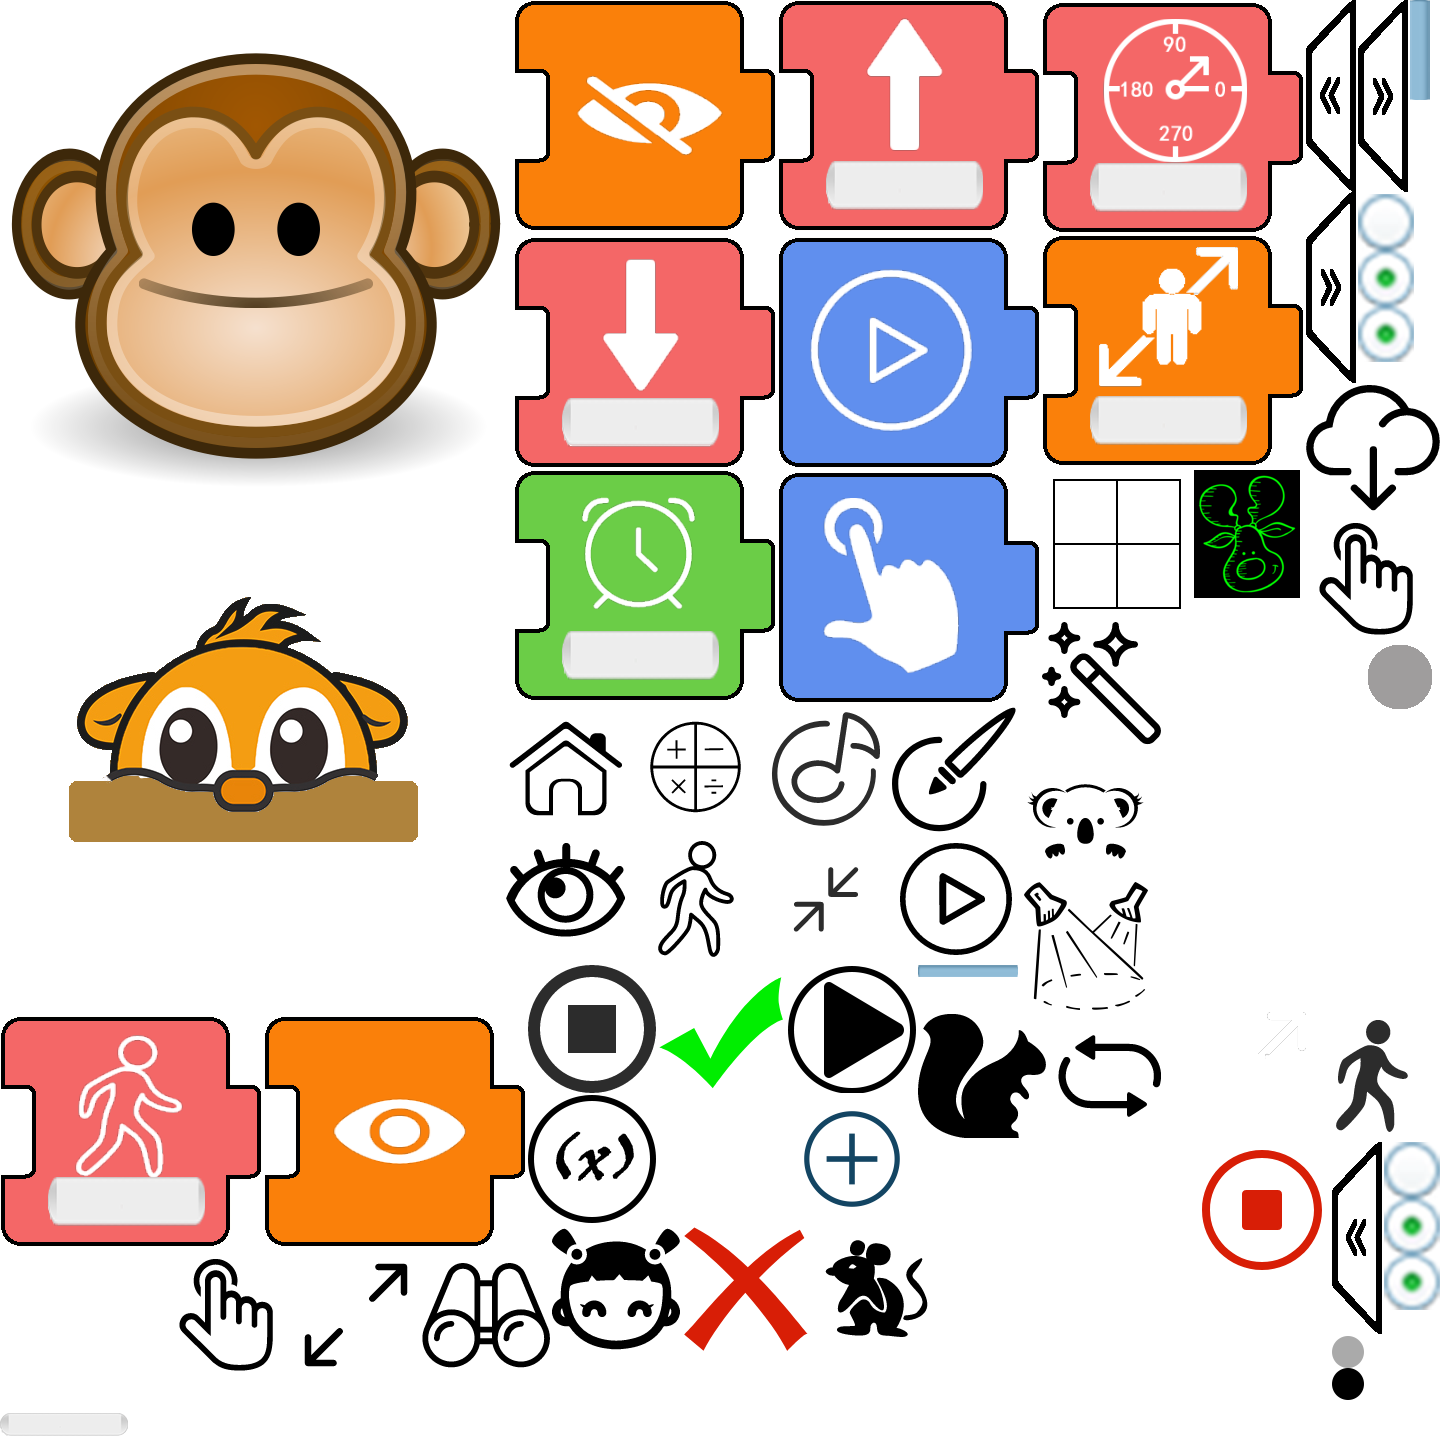
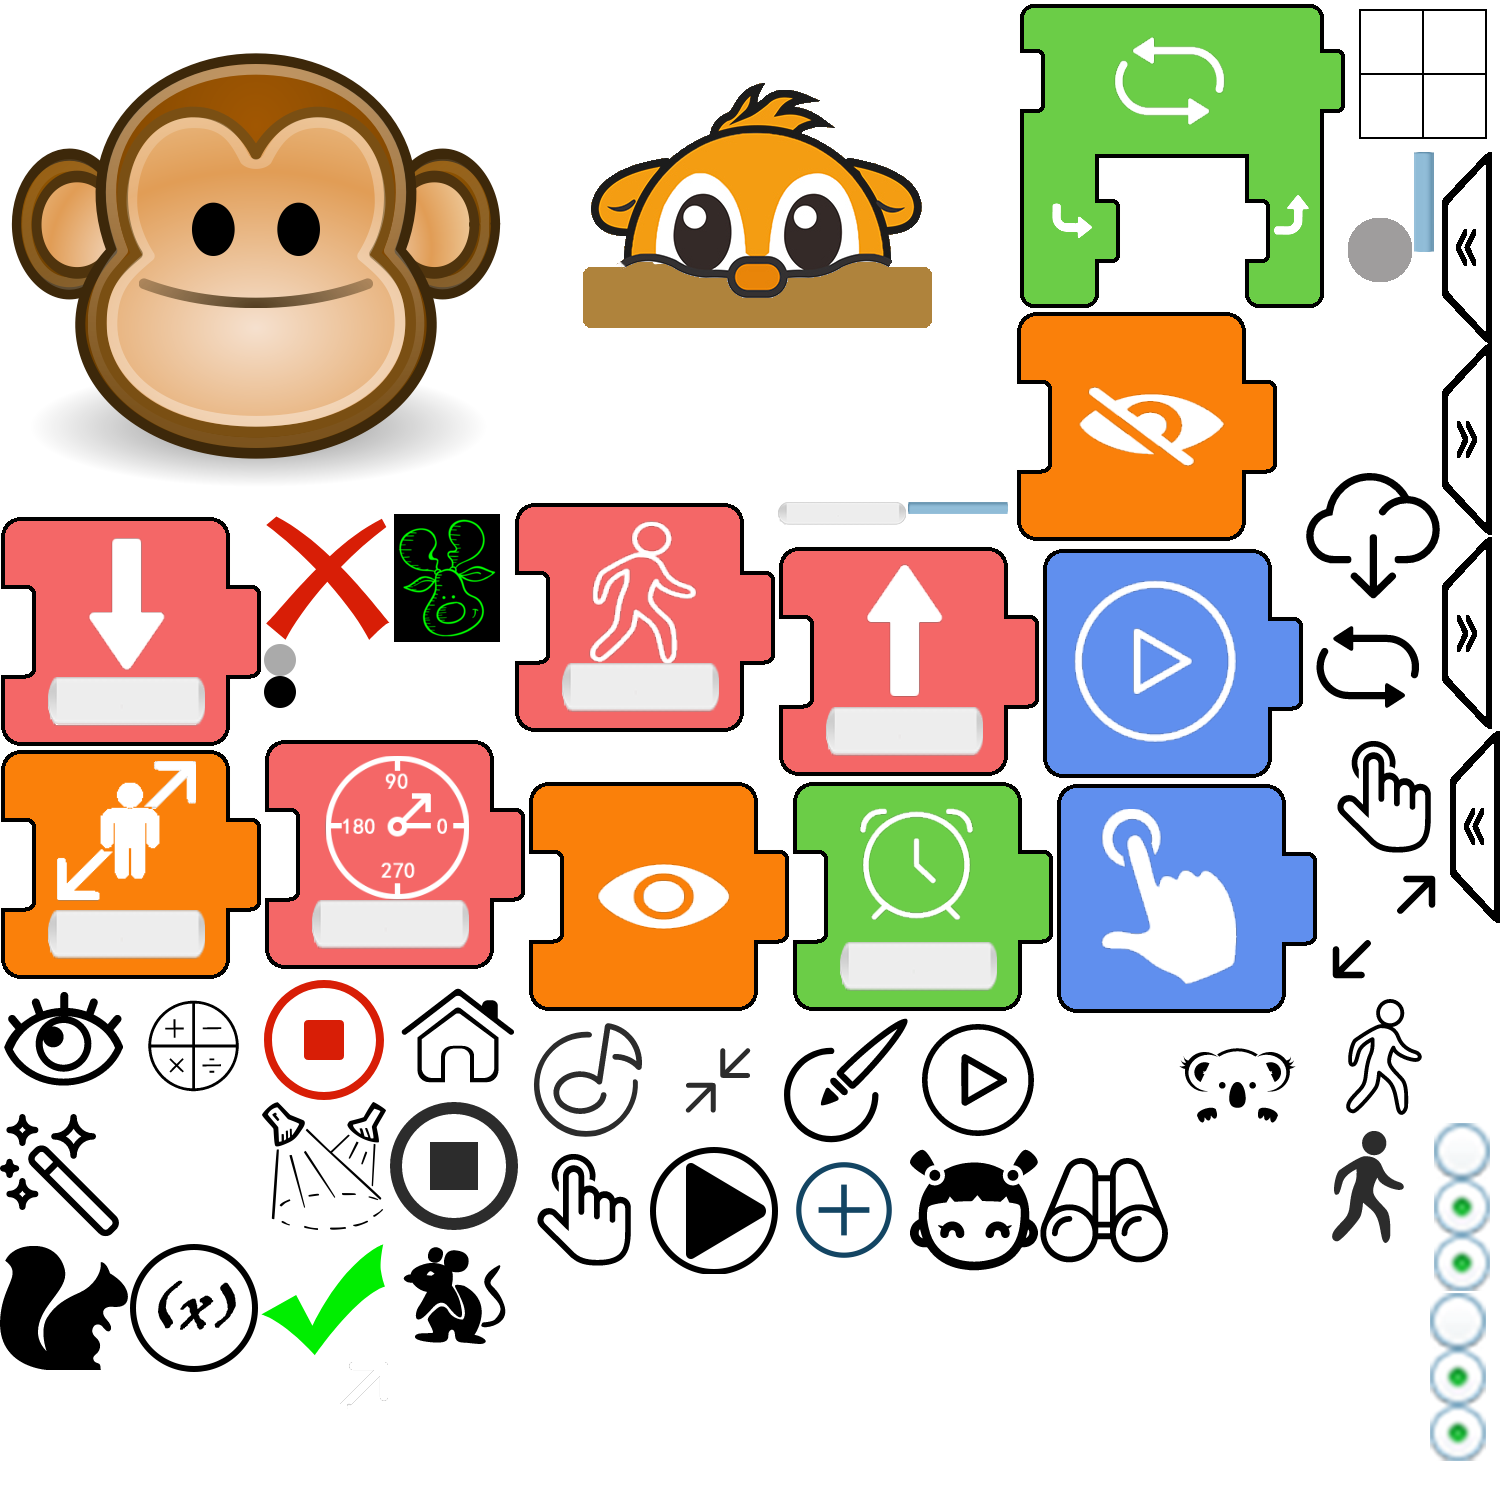
merge successully for second

diff --git a/src/blockSet.ts b/src/blockSet.ts
@@ -44,7 +44,7 @@ module Marmot {
             },
             {
                 "name": "foreverLoop",
-                "path": "materials/block_wait.png"
+                "path": "materials/block_foreverLoop.png"
             },            
         ],
         "event": [

diff --git a/bin/js/blockSet.js b/bin/js/blockSet.js
@@ -40,7 +40,7 @@ var Marmot;
             },
             {
                 "name": "foreverLoop",
-                "path": "materials/block_wait.png"
+                "path": "materials/block_foreverLoop.png"
             },
         ],
         "event": [

diff --git a/src/commandslot.ts b/src/commandslot.ts
@@ -1,7 +1,7 @@
 module Marmot{
     import Event = Laya.Event;
 
-    export class CommandSlot extends SyntaxElement{
+    export class CommandSlot extends Argument{
         constructor(){
             super();
             this.myWidth = 0;

diff --git a/src/thread.ts b/src/thread.ts
@@ -147,6 +147,7 @@ module Marmot{
             if(body){
                 this.pushContext(body.blockSequence());
             }
+            this.pushContext('doYield');
             this.pushContext();
         }
 
